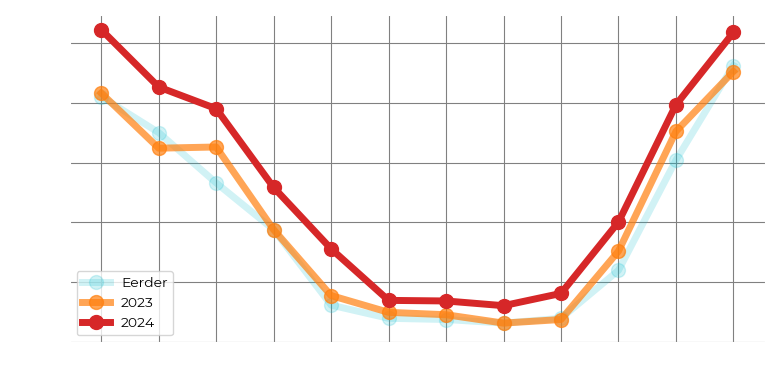
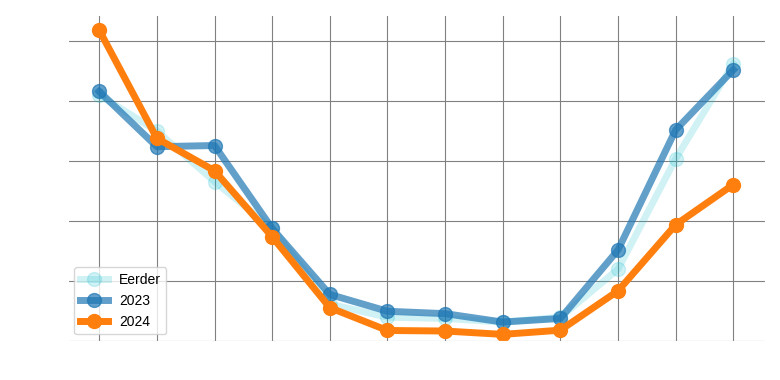
Add data until June 2024

Changed region(s): [[0.0923, 0.0579, 0.9846, 0.8974]]

diff --git a/energieverbruik.py b/energieverbruik.py
@@ -40,17 +40,17 @@ VORIG_JAAR = HUIDIG_JAAR - 1
 #
 # INVOEREN GEGEVENS HUIDIGE JAAR
 #
-MAAND = Month.jan
-DAG_VAN_MAAND = 12
+MAAND = Month.mei
+DAG_VAN_MAAND = 31
 DAGEN_IN_MAAND = 31
-VERBRUIK_GAS = 101
-VERBRUIK_ELEKTRICITEIT = 48
-VERBRUIK_WATER = 3
-PRIJS_GAS = 1.39006
-PRIJS_ELEKTRICITEIT = 0.39802
+VERBRUIK_GAS = 28
+VERBRUIK_ELEKTRICITEIT = 121
+VERBRUIK_WATER = 9
+PRIJS_GAS = 1.2469
+PRIJS_ELEKTRICITEIT = 0.2569
 PRIJS_WATER = 1.021
-VAST_LEVERING_GAS_JAAR = 83.49
-VAST_LEVERING_ELE_JAAR = 83.49
+VAST_LEVERING_GAS_JAAR = 90
+VAST_LEVERING_ELE_JAAR = 90
 
 # Inlezen data graaddagen, verbruik voorgaande jaar en afgeronde maanden
 df = pd.read_csv('energiedata.csv')
@@ -128,7 +128,7 @@ percVerbrEleVrgJr = (totVerbrEleVrgJr / sumVerbrEleVrgJr)
 sumVerbrEleVrgJr2 = 0
 for i in totVerbrEleVrgJr2:
     sumVerbrEleVrgJr2 += i
-percVerbrEleVrgJr2 = (totVerbrEleVrgJr2 / sumVerbrEleVrgJr)
+percVerbrEleVrgJr2 = (totVerbrEleVrgJr2 / sumVerbrEleVrgJr2)
 
 #
 # BEREKENINGEN WATER
@@ -153,13 +153,13 @@ percVerbrWatVrgJr2 = (totVerbrWatVrgJr2 / sumVerbrWatVrgJr2)
 
 # Combineer graaddagen en verbruik vorige jaren als basis voor verwachting
 # verbruik komende jaar
-combiVerbrGas = ((percGraaddagen + percVerbrGasVrgJr + percVerbrGasVrgJr2) / 3)
+combiVerbrGas = ((percGraaddagen + (3 * percVerbrGasVrgJr) + (2 * percVerbrGasVrgJr2)) / 6)
 
 # Combineer gemiddeld elektriciteit en verbruik vorige jaren als basis voor verwachting
-combiVerbrEle = ((gemEle + percVerbrEleVrgJr + percVerbrEleVrgJr2) / 3)
+combiVerbrEle = ((gemEle + (3 * percVerbrEleVrgJr) + (2 * percVerbrEleVrgJr2)) / 6)
 
 # Combineer gemiddeld waterverbruik en verbruik vorige jaren als basis voor verwachting
-combiVerbrWat = ((gemWat + percVerbrWatVrgJr + percVerbrWatVrgJr2) / 3)
+combiVerbrWat = ((gemWat + (3 * percVerbrWatVrgJr) + (2 * percVerbrWatVrgJr2)) / 6)
 
 percMnd = DAG_VAN_MAAND / DAGEN_IN_MAAND
 verbrGasMnd = (VERBRUIK_GAS / percMnd) - vastGasMnd
@@ -184,7 +184,7 @@ sumSchatWat = 0
 if MAAND == Month.jan:
     verbrGasHdgJr = verbrGasMnd / combiVerbrGas[0]
     schatVerbrGasHdgJr = ((combiVerbrGas * verbrGasHdgJr) + vastGasMnd).round(2)
-    verbrEleHdgJr = (verbrEleMnd / combiVerbrEle[0])
+    verbrEleHdgJr = verbrEleMnd / combiVerbrEle[0]
     schatVerbrEleHdgJr = (combiVerbrEle * verbrEleHdgJr).round(2)
     verbrWatHdgJr = verbrWatMnd / combiVerbrWat[0]
     schatVerbrWatHdgJr = (combiVerbrWat * verbrWatHdgJr).round(2)
@@ -200,17 +200,17 @@ else:
     watMndnNJr = 0
     for i in range(0, MAAND):
         schatVerbrGasHdgJr[i] = df['vrbr_gas_HdgJr'][i]
-        verbrGasHdgJr += schatVerbrGasHdgJr[i]
+        sumSchatGas += schatVerbrGasHdgJr[i]
         gasMndnNJr += (schatVerbrGasHdgJr[i] / combiVerbrGas[i])
         schatVerbrEleHdgJr[i] = df['vrbr_ele_HdgJr'][i]
-        verbrEleHdgJr += schatVerbrEleHdgJr[i]
+        sumSchatEle += schatVerbrEleHdgJr[i]
         eleMndnNJr += (schatVerbrEleHdgJr[i] / combiVerbrEle[i])
         schatVerbrWatHdgJr[i] = df['vrbr_wat_HdgJr'][i]
-        verbrWatHdgJr += schatVerbrWatHdgJr[i]
+        sumSchatWat += schatVerbrWatHdgJr[i]
         watMndnNJr += (schatVerbrWatHdgJr[i] / combiVerbrWat[i])
-        gasMndnNJr /= (MAAND-1 + 1)
-        eleMndnNJr /= (MAAND-1 + 1)
-        watMndnNJr /= (MAAND-1 + 1)
+    gasMndnNJr /= (MAAND-1 + 1)
+    eleMndnNJr /= (MAAND-1 + 1)
+    watMndnNJr /= (MAAND-1 + 1)
     for i in range(MAAND, 12):
         if i == MAAND:
             schatVerbrGasHdgJr[i] = ((verbrGasMnd / combiVerbrGas[MAAND])
@@ -226,9 +226,9 @@ else:
                                        + eleMndnNJr)/2) * combiVerbrEle[i]).round(2)
             schatVerbrWatHdgJr[i] = ((((verbrWatMnd / combiVerbrWat[MAAND])
                                        + watMndnNJr)/2)* combiVerbrWat[i]).round(2)
-            verbrGasHdgJr += schatVerbrGasHdgJr[i]
-            verbrEleHdgJr += schatVerbrEleHdgJr[i]
-            verbrWatHdgJr += schatVerbrWatHdgJr[i]
+        sumSchatGas += schatVerbrGasHdgJr[i]
+        sumSchatEle += schatVerbrEleHdgJr[i]
+        sumSchatWat += schatVerbrWatHdgJr[i]
 
 # Schatting totaal verbruik
 schatTotGas = sumSchatGas
@@ -342,16 +342,16 @@ maanden = ["jan", "feb", "mrt", "apr", "mei", "jun", "jul", "aug", "sep",
 rcParams['axes.edgecolor'] = 'White'
 rcParams['figure.figsize'] = [7.8, 3.8]
 rcParams['font.family'] = ['sans-serif']
-rcParams['font.sans-serif'] = ['Montserrat']
+rcParams['font.sans-serif'] = ['Liberation Sans']
 
 def GrafiekGas():
     # Grafiek gasverbruik
     plotGas.figure()
     plotGas.plot(maanden, df['vrbr_gas_VrgJr2'], color='tab:cyan', label="Eerder",
                  linewidth=5, alpha=0.2, marker='o', ms=10)
-    plotGas.plot(maanden, df['vrbr_gas_VrgJr'], color='tab:orange', label="2023",
+    plotGas.plot(maanden, df['vrbr_gas_VrgJr'], color='tab:blue', label="2023",
                  linewidth=5, alpha=0.7, marker='o', ms=10)
-    plotGas.plot(maanden, schatVerbrGasHdgJr, color='tab:red',
+    plotGas.plot(maanden, schatVerbrGasHdgJr, color='tab:orange',
                  label="2024", linewidth=5, marker='o', ms=10)
     #plotGas.title("Gas", color='White')
     #plotGas.xlabel("maand", color='White')
@@ -370,10 +370,10 @@ def GrafiekElektriciteit():
     plotEle.figure()
     plotEle.plot(maanden, df['vrbr_ele_VrgJr2'], color='tab:cyan', label="Eerder",
                  linewidth=5, alpha=0.2, marker='o', ms=10)
-    plotEle.plot(maanden, df['vrbr_ele_VrgJr'], color='tab:orange', label="2023",
+    plotEle.plot(maanden, df['vrbr_ele_VrgJr'], color='tab:blue', label="2023",
                  linewidth=5, alpha=0.7, marker='o', ms=10)
     plotEle.plot(maanden, schatVerbrEleHdgJr,
-                 color='tab:red', label="2024", linewidth=5, marker='o', ms=10)
+                 color='tab:orange', label="2024", linewidth=5, marker='o', ms=10)
     #plotEle.title("Elektriciteit", color='White')
     #plotEle.xlabel("maand", color='White')
     plotEle.ylabel("verbruik (kWh)", color='White')
@@ -391,9 +391,9 @@ def GrafiekWater():
     plotWat.figure()
     plotWat.plot(maanden, df['vrbr_wat_VrgJr2'], color='tab:cyan', label="Eerder",
                  linewidth=5, alpha=0.2, marker='o', ms=10)
-    plotWat.plot(maanden, df['vrbr_wat_VrgJr'], color='tab:orange', label="2023",
+    plotWat.plot(maanden, df['vrbr_wat_VrgJr'], color='tab:blue', label="2023",
                  linewidth=5, alpha=0.7, marker='o', ms=10)
-    plotWat.plot(maanden, schatVerbrWatHdgJr, color='tab:red',
+    plotWat.plot(maanden, schatVerbrWatHdgJr, color='tab:orange',
                  label="2024", linewidth=5, marker='o', ms=10)
     #plotWat.title("Water", color='White')
     #plotWat.xlabel("maand", color='White')

diff --git a/statistical-info.py b/statistical-info.py
@@ -46,13 +46,13 @@ watDitJaarMin2Med = round(watDitJaarMin2.median(), 1)
 
 def toon(jrStd, jrmin1Std, jrmin2Std, jrGem, jrmin1Gem, jrmin2Gem,
          jrMed, jrmin1Med, jrmin2Med):
-    print("\t2023\t", jrStd, " (", round(jrStd-jrmin2Std, 1), ")\t",
+    print("\t   2024\t", jrStd, " (", round(jrStd-jrmin2Std, 1), ")\t",
           jrGem, " (", round(jrGem-jrmin2Gem, 1), ")\t",
           jrMed, " (", round(jrMed-jrmin2Med, 1), ")", sep="")
-    print("\t2022\t", jrmin1Std, " (", round(jrmin1Std-jrmin2Std, 1), ")\t",
+    print("\t   2023\t", jrmin1Std, " (", round(jrmin1Std-jrmin2Std, 1), ")\t",
           jrmin1Gem, " (", round(jrmin1Gem-jrmin2Gem, 1), ")\t",
           jrmin1Med, " (", round(jrmin1Med-jrmin2Med, 1), ")", sep="")
-    print("\t2021\t", jrmin2Std, "\t\t", jrmin2Gem, "\t\t", jrmin2Med, sep="")
+    print("\t<= 2022\t", jrmin2Std, "\t\t", jrmin2Gem, "\t\t", jrmin2Med, sep="")
 
 print("GAS (m3)\tStdDev\t\tAvg\t\tMed")
 toon(gasDitJaarStd, gasDitJaarMin1Std, gasDitJaarMin2Std,
